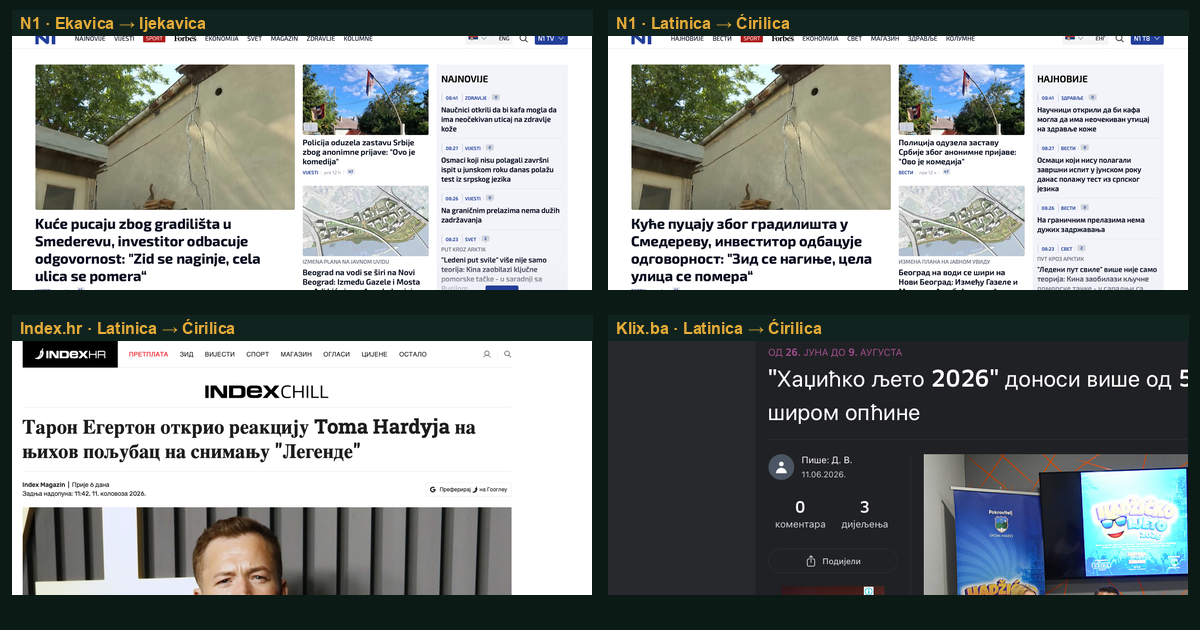
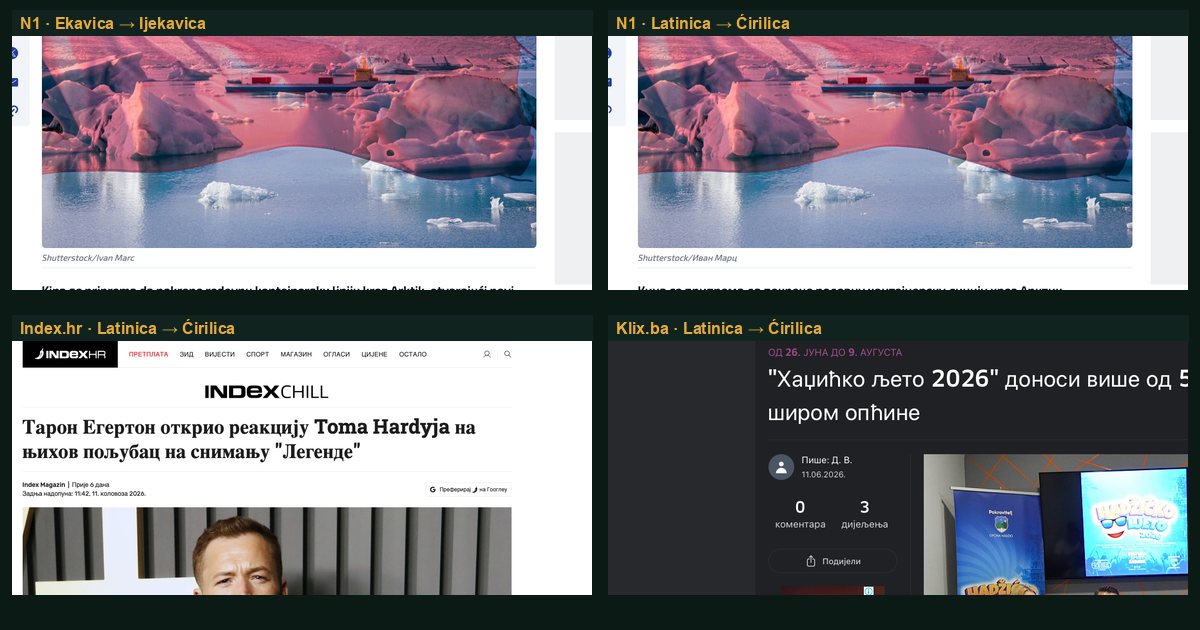
Use N1 Polarni put svile article for clear Ekavica-Ijekavica comparison

Changed region(s): [[0.0, 0.0302, 0.4933, 0.4825], [0.5242, 0.0302, 0.9867, 0.4825]]

diff --git a/docs/LAUNCH_AND_SOCIAL.md b/docs/LAUNCH_AND_SOCIAL.md
@@ -73,12 +73,11 @@ These are actual browser screenshots made after accepting each portal's cookie
 banner and applying the shipped converter. They show ordinary public portal
 layout and advertising; no account UI, comments, or private content is present.
 
-The headline fixtures below establish converter behavior. They are not claimed
-to be the exact visible headline in every live screenshot:
-
-- **N1, dialect.** `Zamenik načelnika kaže da će u Deliblatskoj peščari najveći problem biti vetar promenljivog pravca.` → `Zamjenik načelnika kaže da će u Deliblatskoj pješčari najveći problem biti vjetar promjenljivog pravca.` Pinned in `test/converter.test.js`.
-- **N1, script.** Same source → `Заменик начелника каже да ће у Делиблатској пешчари највећи проблем бити ветар променљивог правца.`
-- **Index.hr and Klix.ba, script.** Current live article views were converted from Latin to Cyrillic; frozen fixtures remain in `test/fixtures/portal-samples.json`.
+- **N1 (Srbija), dialect & script.** Article *"Polarni put svile"* (`https://n1info.rs/svet/polarni-ledeni-put-svile-rusija-kina/`).
+  - Dialect: `nedeljnu liniju ... Severni morski put` → `nedjeljnu liniju ... Sjeverni morski put`.
+  - Script: `Kina se priprema ...` → `Кина се припрема ...`.
+- **Index.hr (Hrvatska), script.** `Taron Egerton otkrio reakciju Toma Hardyja ...` → `Тарон Егертон открио реакцију Toma Hardyja ...`.
+- **Klix.ba (BiH), script.** `"Hadžićko ljeto 2026" ...` → `"Хаџићко љето 2026" ...`.
 
 ## Social drafts
 
